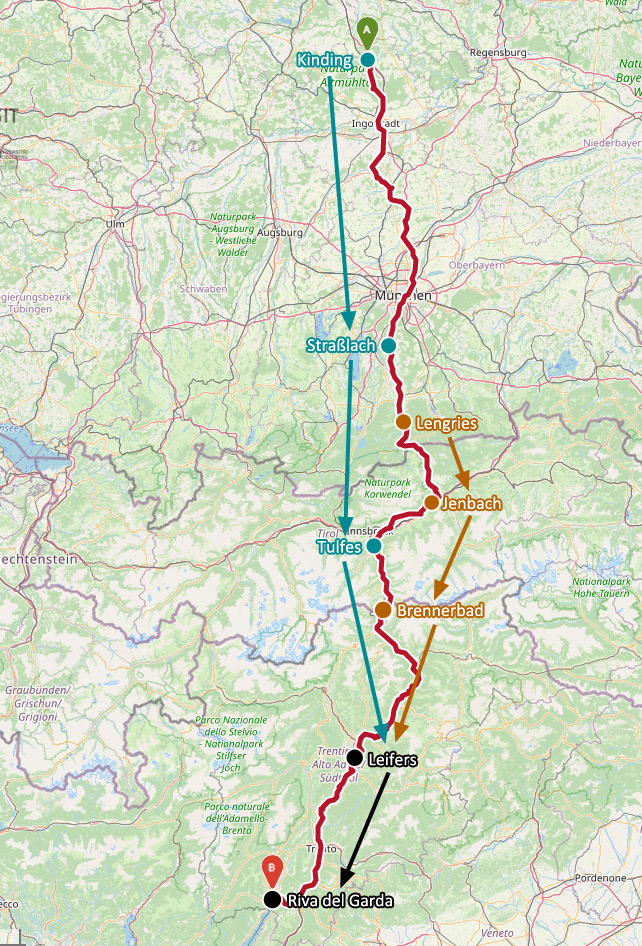
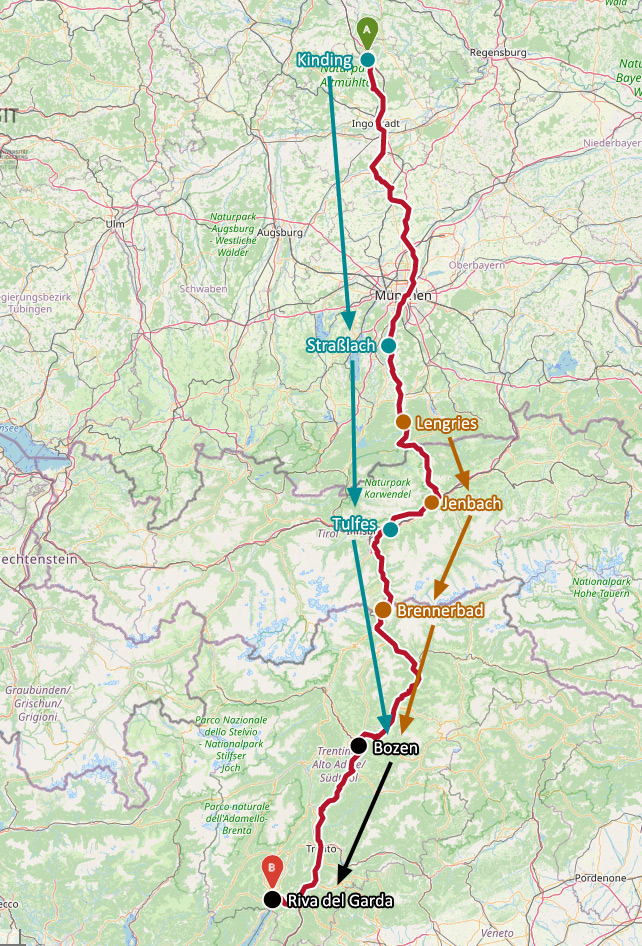
Umplanung Bozen

Changed region(s): [[0.4984, 0.3679, 0.6542, 0.889], [0.5296, 0.889, 0.5607, 0.9503], [0.6542, 0.6438, 0.6854, 0.6744]]

diff --git a/alpenx-2021.md b/alpenx-2021.md
@@ -84,12 +84,12 @@ Jenbach - Brennerbad
 
 ## Samstag, 24. Juli
 
-Tulfes / Brennerbad - Leifers
+Tulfes / Brennerbad - Bozen
 
 #### Route
 
-![#008992](https://via.placeholder.com/15/008992/000000?text=+) [Tag 3, 141 km, 1144 Hm - BRouter](http://brouter.de/brouter-web/#map=10/47.0898/11.3063/osm-mapnik-german_style&lonlats=11.530167,47.256911;11.450307,46.950892;11.444664,46.937649;11.640369,46.686962;11.623503,46.680912;11.578496,46.644722;11.569462,46.642104;11.567037,46.641021;11.566029,46.638771;11.551716,46.63052;11.5238,46.582742;11.490004,46.526066;11.451895,46.499602;11.400992,46.492823;11.384314,46.494611;11.344296,46.439417;11.333449,46.423615&profile=fastbike-lowtraffic)  
-![#b46100](https://via.placeholder.com/15/b46100/000000?text=+) [Tag 3, 97 km, 360 Hm - Komoot](https://www.komoot.de/plan/tour/d08AszYlQCvQnA=FzrsExU7cxtXD3hKkA==/@46.7243297,11.5672302,10z)
+![#008992](https://via.placeholder.com/15/008992/000000?text=+) [Tag 3, 135 km, 1120 Hm - BRouter](http://brouter.de/brouter-web/#map=10/46.8717/11.2871/osm-mapnik-german_style&lonlats=11.530167,47.256911;11.450307,46.950892;11.444664,46.937649;11.640369,46.686962;11.623503,46.680912;11.578496,46.644722;11.569462,46.642104;11.567037,46.641021;11.566029,46.638771;11.551716,46.63052;11.5238,46.582742;11.490004,46.526066;11.451895,46.499602;11.400992,46.492823;11.384314,46.494611;11.333993,46.465508&profile=fastbike-lowtraffic)  
+![#b46100](https://via.placeholder.com/15/b46100/000000?text=+) [Tag 3, 92 km, 360 Hm - Komoot](https://www.komoot.de/plan/tour/d08AszYlQCvQnA=Fzp4EGKnbmlrvyClNtu0wjA=/@46.7266831,11.4697266,10z)
 
 #### Übernachtung
 
@@ -104,11 +104,11 @@ Tulfes / Brennerbad - Leifers
 
 ## Sonntag, 25. Juli
 
-Leifers - Riva del Garda
+Bozen - Riva del Garda
 
 #### Route
 
-[Tag 4, 103 km, 246 Hm - BRouter](http://brouter.de/brouter-web/#map=10/46.1675/10.9245/osm-mapnik-german_style&lonlats=11.333427,46.423689;11.314802,46.412092;11.208125,46.245104;11.152174,46.224638;11.136703,46.202644;11.114666,46.183708;11.101727,46.15968;11.075678,46.142768;11.078382,46.132988;11.086535,46.129232;11.086085,46.116354;11.111362,46.051283;11.122327,46.012299;11.122842,46.001964;11.103959,45.950299;11.051774,45.921586;11.016326,45.890306;11.008666,45.866853;10.994364,45.851873;10.842025,45.886483&profile=fastbike-lowtraffic)
+[Tag 4, 108 km, 265 Hm - BRouter](http://brouter.de/brouter-web/#map=10/46.1551/11.1209/osm-mapnik-german_style&lonlats=11.333953,46.465481;11.334565,46.444304;11.314802,46.412092;11.208125,46.245104;11.152174,46.224638;11.136703,46.202644;11.114666,46.183708;11.101727,46.15968;11.075678,46.142768;11.078382,46.132988;11.086535,46.129232;11.086085,46.116354;11.111362,46.051283;11.122327,46.012299;11.122842,46.001964;11.103959,45.950299;11.051774,45.921586;11.016326,45.890306;11.008666,45.866853;10.994364,45.851873;10.875156,45.871545;10.842025,45.886483&profile=fastbike-lowtraffic)
 
 #### Übernachtung
 
@@ -137,9 +137,9 @@ Leifers - Riva del Garda
 | --- | ------- | ---------- | ---------- |
 | 1 | Kinding - Straßlach      | 137 | 643  |
 | 2 | Straßlach - Tulfes       | 118 | 1130 |
-| 3 | Tulfes - Leifers         | 141 | 1144 |
-| 4 | Leifers - Riva del Garda | 101 | 246  |
-|   |                       | **497** | **3163** |
+| 3 | Tulfes - Bozen           | 135 | 1120 |
+| 4 | Bozen - Riva del Garda   | 108 | 265  |
+|   |                       | **498** | **3158** |
 
 ### ![#b46100](https://via.placeholder.com/15/b46100/000000?text=+) Team
 
@@ -147,6 +147,6 @@ Leifers - Riva del Garda
 | --- | ------- | ---------- | ---------- |
 | 1 | Lengries - Jenbach       | 47  | 410  |
 | 2 | Jenbach - Brennerbad     | 72  | 1190 |
-| 3 | Brennerbad - Leifers     | 97  | 360  |
-| 4 | Leifers - Riva del Garda | 101 | 246  |
-|   |                       | **317** | **2206** |
+| 3 | Brennerbad - Bozen       | 92  | 360  |
+| 4 | Bozen - Riva del Garda   | 108 | 265  |
+|   |                       | **319** | **2225** |
